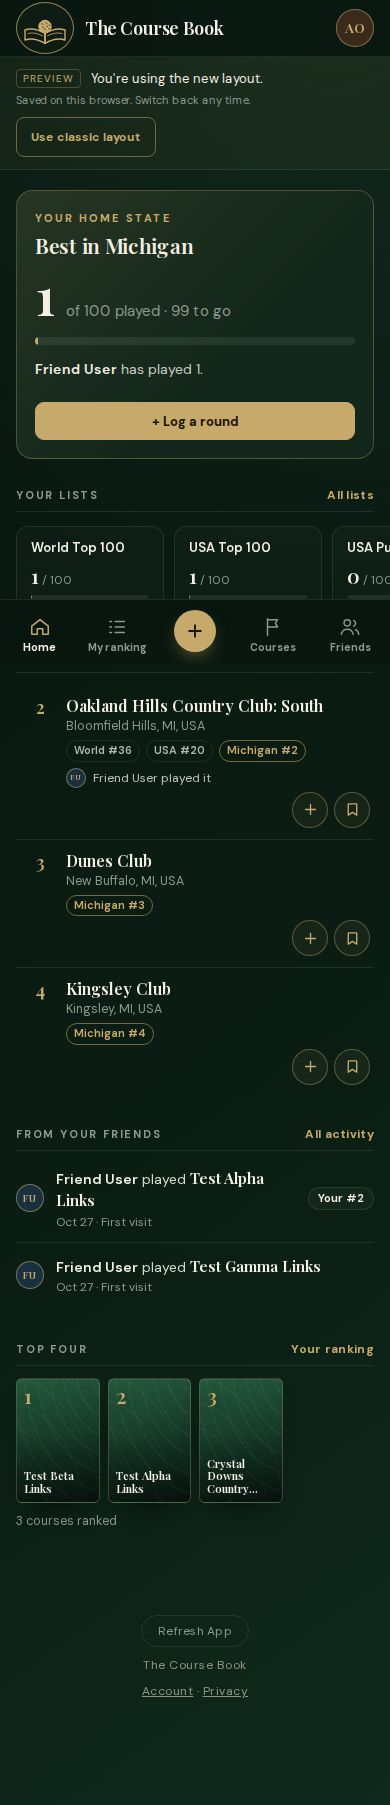
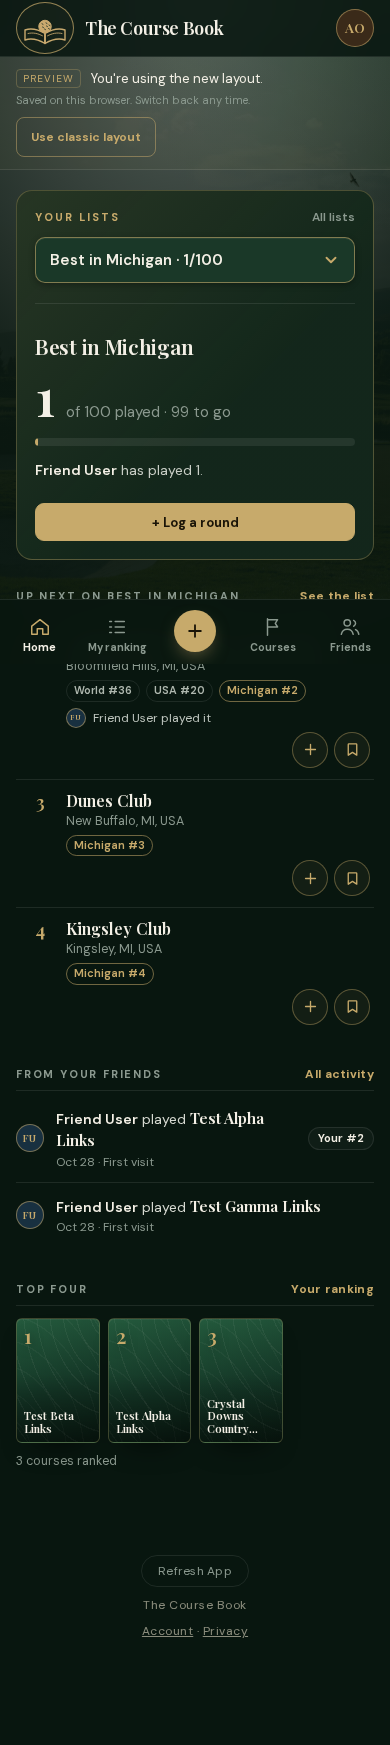
docs: describe the photo background and in-place Log, and refresh the Home screenshots
Claude-Session: https://claude.ai/code/session_01R2LepfRuCSN7mJRBSvtpCK

diff --git a/docs/architecture.md b/docs/architecture.md
@@ -176,7 +176,8 @@ Validate untrusted input at boundaries: request parameters and bodies (contract 
 The web app is mid-redesign ([decision](../.planning/decisions/2026-09-29-social-redesign-top-lists-profiles-timelines-and-star-ratings.md)).
 
 - **Redesigned screens** style themselves with colocated CSS modules. These are the navigation (`features/shell`), Home (`features/home`), Activity, profiles and Friends (`features/social`, `features/friends`), the Courses page and member Top lists (`features/top-lists`), and the Ranking tab (`features/journal`, on the Top lists rows). They use the `legacy.css` `:root` tokens (`--bg`, `--panel`, `--cream`, `--gold`, …) and its Playfair Display and DM Sans fonts. Modules keep their class names local, because `legacy.css` styles bare `header`, `nav`, `main` and generic classes such as `.card`, `.avatar` and `.stat`. Join module classes with `cx()` (`shared/lib/cx.ts`): lookups are `string | undefined` under `noUncheckedIndexedAccess`.
-- **Screens not yet redesigned** keep their markup, element ids and `legacy.css`: Account, Privacy, and the Ranking tab's dialogs (course details, the count editor, round history, Log and Add a course). The stylesheet preserves what Chromium parsed from the original page, including rules the browser ignored, so broad cleanup changes appearance.
+- **Screens not yet redesigned** keep their markup, element ids and `legacy.css`: Account, Privacy, the Ranking tab's dialogs (course details, the count editor, round history), and Log a round and Add a course, which the layout opens over any page.
+- **Site background** (`.app::before` in `legacy.css`, both layouts): a golf course photo, currently linked from `images.unsplash.com`, on a fixed layer under the original green glow and a radial gradient that is lighter at the top and darker at the bottom. It is a fixed pseudo-element because iOS Safari ignores `background-attachment: fixed`. The stylesheet preserves what Chromium parsed from the original page, including rules the browser ignored, so broad cleanup changes appearance.
 - **Routes:**
   - `/` is Home. Classic (the default) shows the friends feed. The opt-in new layout leads with one focal point: the member's progress on the list Home tracks, with Log a round as the only solid action. The tracked list is `?goal=<slug>`, else the one picked on this browser (`coursebookHomeGoalList`), else their home state's when started, else the started list with the largest share played. The hero opens with the member's lists (national lists and the home state's) as the control that picks the tracked list: toggle buttons on wider screens, a dropdown on phones. Below the hero are:
     - Up next on the tracked list, the first three unplayed courses with Want to play first, with the Courses page's Log and Want to play buttons;
